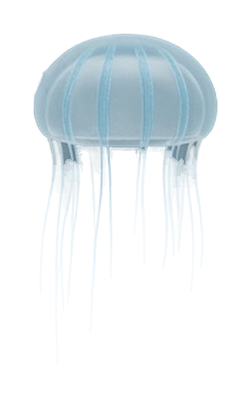
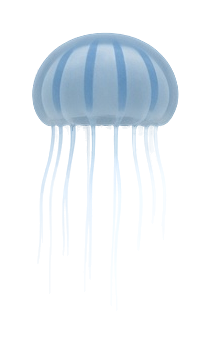
Art: native 1280x720 renders (no crop, no upscale) and native-res cutouts, frost-jelly to hedge-finch; images only, no meshes

Changed region(s): [[0.1137, 0.0875, 0.8815, 0.5831]]

diff --git a/species/art/granary-owl/prompt.md b/species/art/granary-owl/prompt.md
@@ -15,7 +15,7 @@ Tawny: A pale-faced owl that roosts in barn rafters and hunts the field edges.
 
 Kept word for word in `prompt.txt` (written in the manner of `../prompts.py`, with the shot fitted to a bird's body: a side view; never changed once an image is made from it):
 
-> A young barn owl, golden buff back with fine dark spots, a white heart-shaped face, a cream belly, small black eyes and long pale legs, on short trodden grass in a farmyard, a weathered wooden fence well behind it. Natural wildlife photograph, realistic proportions. Camera at the animal's eye level and far away, a near-orthographic side view with a long lens: no wide angle, no low angle, no looking down. The bird stands still on the ground, side-on, facing left, in a relaxed standing pose: head level and looking ahead, wings folded at its sides, both feet on the ground and in view, its tail in view. It is small in the frame, about a fifth of the frame's width, with generous empty space on every side, and clearly separated from everything behind it: nothing overlaps it. Soft, even daylight from an overcast sky, no hard shadows, no rim light. Sharp focus on the animal. Landscape frame, 3:2. No people, no other animals, no text, no logos, no frame, no watermark.
+> A young barn owl, golden buff back with fine dark spots, a white heart-shaped face, a cream belly, small black eyes and long pale legs, on short trodden grass in a farmyard, a weathered wooden fence well behind it. Natural wildlife photograph, realistic proportions. Camera at the animal's eye level and far away, a near-orthographic side view with a long lens: no wide angle, no low angle, no looking down. The bird stands still on the ground, side-on, facing left, in a relaxed standing pose: head level and looking ahead, wings folded at its sides, its two long legs a little apart, one a step ahead of the other, both legs and both feet clearly separate, on the ground and in view, its tail in view. It is small in the frame, about a fifth of the frame's width, with generous empty space on every side, and clearly separated from everything behind it: nothing overlaps it. Soft, even daylight from an overcast sky, no hard shadows, no rim light. Sharp focus on the animal. Landscape frame, 3:2. No people, no other animals, no text, no logos, no frame, no watermark.
 
 ## Cutout (`cutout.png`)
 

diff --git a/species/art/frost-jelly/prompt.md b/species/art/frost-jelly/prompt.md
@@ -15,7 +15,7 @@ Shiver: A jelly of clear ice-blue that drifts under the pack ice, glowing faintl
 
 Kept word for word in `prompt.txt` (written in the manner of `../prompts.py`, with the shot fitted to a jellyfish's body: a side view; never changed once an image is made from it):
 
-> A jellyfish with a clear ice-blue bell, five faint pale blue stripes on it and ten long fine pale blue tentacles, in clear, cold, still water under pale pack ice, open blue-grey water all round it. Natural wildlife photograph, realistic proportions. Camera at the animal's eye level and far away, a near-orthographic side view with a long lens: no wide angle, no low angle, no looking down. The jelly drifts still in open water, seen side-on: its bell level and round, every tentacle hanging down and in view. It is small in the frame, about a fifth of the frame's width, with generous empty space on every side, and clearly separated from everything behind it: nothing overlaps it. Soft, even daylight from an overcast sky, no hard shadows, no rim light. Sharp focus on the animal. Landscape frame, 3:2. No people, no other animals, no text, no logos, no frame, no watermark.
+> A jellyfish with a clear ice-blue bell, five faint pale blue stripes on it and ten long pale blue tentacles, each clearly visible against the darker water, in clear, cold, still water under pale pack ice, open blue-grey water all round it. Natural wildlife photograph, realistic proportions. Camera at the animal's eye level and far away, a near-orthographic side view with a long lens: no wide angle, no low angle, no looking down. The jelly drifts still in open water, seen side-on: its bell level and round, every tentacle hanging down and in view. It is small in the frame, about a fifth of the frame's width, with generous empty space on every side, and clearly separated from everything behind it: nothing overlaps it. Soft, even daylight from an overcast sky, no hard shadows, no rim light. Sharp focus on the animal. Landscape frame, 3:2. No people, no other animals, no text, no logos, no frame, no watermark.
 
 ## Cutout (`cutout.png`)
 
